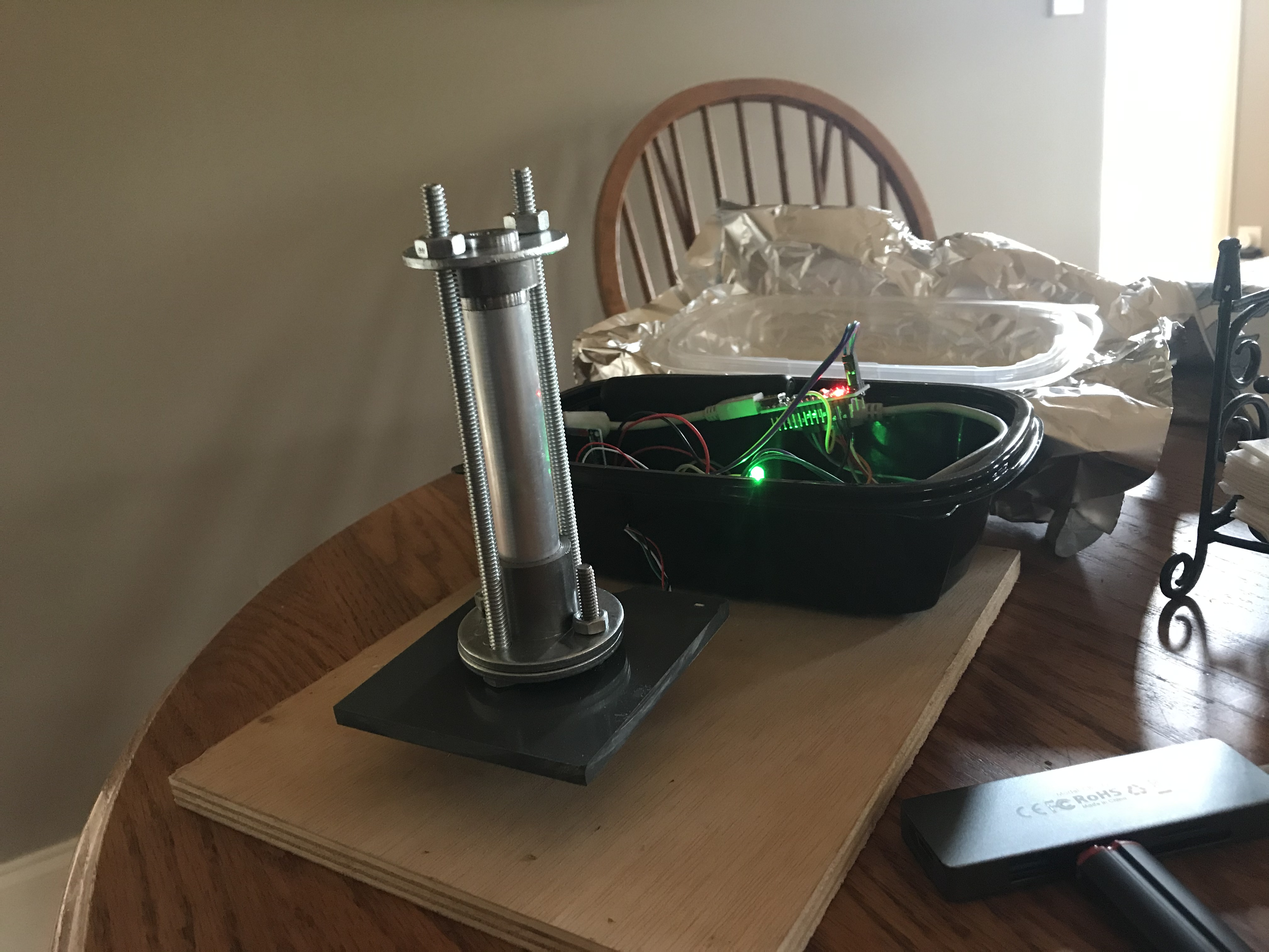
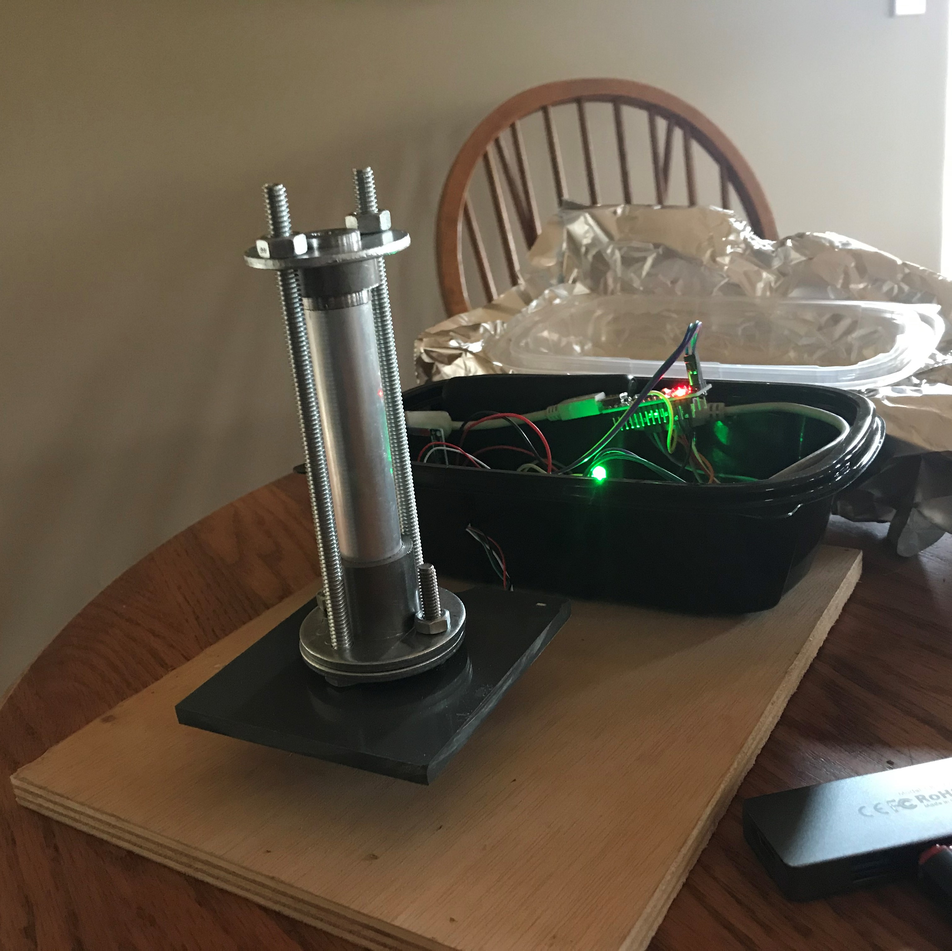
Added Rocket Motor Test Stand Webpage

diff --git a/rocketteststand.html b/rocketteststand.html
@@ -53,41 +53,41 @@
 								</header>
 								<div class="box alt">
 									<div class="row gtr-50 gtr-uniform">
-										<div class="col-6"><span class="image fit"><img src="images/Apollo AV-1 Parts/Apollo AV-1 Trigger_1.stl.png" alt="" /></span></div>
-										<div class="col-6"><span class="image fit"><img src="images/Apollo AV-1 Parts/Shaft v2_2.stl.png" alt="" /></span></div>
+										<div class="col-6"><span class="image fit"><img src="images/arduinoprojectpictures/IMG_4463.jpg" alt="" /></span></div>
+										<div class="col-6"><span class="image fit"><img src="images/arduinoprojectpictures/Rocket Stand V1 in action.png" alt="" /></span></div>
 									</div>
 								</div>
 								<!-- <div class="image main"><img src="images/Apollo AV-1 Parts/Apollo AV-1 Trigger_1.stl.png" alt="" /></div> -->
 								<p>This rocket test stand is built for conducting thrust tests on homemade rocket motors. This design is currently still a work in progress 
 									due to the fact that the picture in the project showcase was the last one taken before the stand was destroyed, along with the data. While 
-									the test stand worked perfectly, albeit lacking asthetics, all of the data from the half dozen motors tests was lost after the SD card logging the 
+									the test stand worked perfectly, albeit lacking aesthetics, all of the data from the half dozen motors tests was lost after the SD card logging the 
 									data turned into fragments strewn across the lawn. After lessons learned from the first motor test stand, I have purchased all the required parts 
-									for a version two design. The latest design features logging thrust data from a 20 kilogram strain gauge, where the data is read by a microcontroller. 
+									for a version two design. The latest design features logging thrust data from a 10-kilogram strain gauge, where the data is read by a microcontroller. 
 									Most of the changes between the original design pictured and the new design centeres around a bigger load cell to capture higher peak thrusts in rocket motors 
-									as well as a redundant realtime telemetry system streaming straight to a computer so that even if the motor catastrophically fails, all data collected up until 
+									as well as a redundant real time telemetry system streaming straight to a computer so that even if the motor catastrophically fails, all data collected up until 
 									failure is still logged. Other changes include adding a key for a more secure launch circuit as well as a much longer cable. I also will move all the electronics 
 									below the test stand with a blast shield over it so that no electronics will hopefully be harmed this time around. 									
 								<header class="major">
 									<h2 style="text-align: left;" >Load Cell & Amplifier</h2>
 								</header>
-								<p><span class="image right"><img src="images/Apollo AV-1 Parts/Apollo AV-1 Trigger_1.stl.png" alt="" /></span>
-									This is the load cell in a wheatstone bridge configuration is used to measure force applied whatever it is attached to. Load cells come in all shapes and sizes, with different accuracies and weight ratings. For most hobby purposes, the higher the weight rating, the less accurate it will be, especially when trying to measure small forces. So, it is important to purchase the right load cell for the project. In my case, a 10 kilogram load cell was used, as most commercial rocket engines dont exceed 20 newtons, or 2 kilograms of thrust.  
-									The leads of the load cell are connected to an HX711 load cell amplifier in order to actually get measurable data from the load cell, which would otherwise just be small voltages due to changes in resistances. Most purchasable load cells come with the HX711 amplifier 
-									as it is a perfect pairing for hobby microcontrollers and actually reading data. Before I started the project, I was able to research how others had utilized this load cell amplifier configuration. 
+								<p><span class="image right"><img src="images/arduinoprojectpictures/loadcellhx711.jpg" alt="" /></span>
+									This is the load cell in a Wheatstone bridge configuration is used to measure force applied whatever it is attached to. Load cells come in all shapes and sizes, with different accuracies and weight ratings. For most hobby purposes, the higher the weight rating, the less accurate it will be, especially when trying to measure small forces. So, it is important to purchase the right load cell for the project. In my case, a 10-kilogram load cell was used, as most commercial rocket engines don't exceed 20 newtons, or 2 kilograms of thrust.  
+									The leads of the load cell are connected to an HX711 load cell amplifier to actually get measurable data from the load cell, which would otherwise just be small voltages due to changes in resistances. Most purchasable load cells come with the HX711 amplifier 
+									as it is a perfect pairing for hobby microcontrollers and reading data. Before I started the project, I was able to research how others had utilized this load cell amplifier configuration. 
 									I found that while in its stock configuration it was slow, it could be modified to increase the data throughput of the load cell. 
 									Most HX711 amplifiers ship with a stock refresh rate of 10Hz, or 10 times a second. This is a problem when trying to gather meaningful data out of a rocket motor as burn times can happen in as little as 1 second. 
-									In order to see the thrust curve, and to calculate other metrics such as specifc impulse, the board was modified by resoldering a new jumper on the HX711 in order to allow 
+									In an effort to get meaningful data such as the thrust curve, and to calculate other metrics such as specifc impulse, the board was modified by resoldering a new jumper on the HX711 in order to allow 
 									operation at 80Hz.
 								<ul class="actions special">
 									<li><a href="https://www.sparkfun.com/products/13879" target="_blank" class="button">Check it out on adafruit</a></li>
 								</ul>
 
 								<header class="major">
-									<h2 style="text-align: right;" >Shaft</h2>
+									<h2 style="text-align: right;" >Stand</h2>
 								</header>
-								<p><span class="image left"><img src="images/Apollo AV-1 Parts/Shaft v2_2.stl.png" alt="" /></span>This is the shaft part I designed in Fusion360. Much like the trigger part above, the precise measurements were adhered to strictly, while once again liberties were taken to aid in rigidity and ease of 3D printing. The location for the original reed switch magnet has been projected perfectly with respect to the shaft so that there is no misalignment through the full range of motion. The angle of the keyway that couples with the trigger part is also modeled perfectly for a snug fit. The bottom has been reinforced for 3D printing ease. Extra strength in this area can help provide a solid wide base to 3d print a vertical shaft on.</p>
-								<ul class="actions special">
-									<li><a href="https://www.thingiverse.com/thing:4720822" target="_blank" class="button">Check it out on thingiverse</a></li>
+								<p><span class="image left"><img src="images/arduinoprojectpictures/IMG_4463.jpg" alt="" /></span>
+									The first iteration of the stand was constructed out of a scrap piece of plywood and some machined aluminum bushings to for load cell mounting. The bushings were turned from aluminum bar stock to 5 millimeters in length. The actual top of the load cell plate was made from a flat piece of PVC sheet stock with holes drilled to accommodate the motor mounting bracket. This bracket consists of two machined ends that fit over the rocket casing. The whole assembly is sandwiched together using four sets of threaded rod and nuts to securely fasten the rocket motor in the vertical axis for accurate and repeatable thrust measurements. In the version two design parts from this version will be salvaged and reused as this part of the test stand was robust enough for any potential failure of the test platform. As stated previously however, the base plate that hold the load cell and motor fixture will be raised up to accommodate the electronics housing so that they remain safer in any sort of mishap from the test stand.								<ul class="actions special">
+									<!--<li><a href="https://www.thingiverse.com/thing:4720822" target="_blank" class="button">Check it out on thingiverse</a></li>-->
 								</ul>
 							</section>
 					</div>
@@ -95,7 +95,7 @@
 
 				<!-- Copyright -->
 					<div id="copyright">
-						<ul><li>&copy; Dillon Kelley 2020</li><li>Design: <a href="https://html5up.net">HTML5 UP</a></li></ul>
+						<ul><li>&copy; Dillon Kelley 2021</li><li>Design: <a href="https://html5up.net">HTML5 UP</a></li></ul>
 					</div>
 
 			</div>

diff --git a/projects.html b/projects.html
@@ -88,10 +88,10 @@
 										<!-- <span class="date">April 24, 2017</span> -->
 										<h2><a href="#">Rocket Test Stand</a></h2>
 									</header>
-									<a href="#" class="image fit"><img src="images/arduinoprojectpictures/IMG_4463.jpg" alt="" /></a>
+									<a href="rocketteststand.html" class="image fit"><img src="images/arduinoprojectpictures/IMG_4463.jpg" alt="" /></a>
 									<p>This Arduino project is still a work in progress. This is a DIY model rocket motor test stand using a load cell and sd card logging to test the efficacy of my homemade model rocket motors.</p>
 									<ul class="actions special">
-										<li><a href="#" class="button disabled">Check it out</a></li>
+										<li><a href="rocketteststand.html" class="button">Check out the progress</a></li>
 									</ul>
 								</article>
 								<article>

diff --git a/apolloav-1parts.html b/apolloav-1parts.html
@@ -81,7 +81,7 @@
 
 				<!-- Copyright -->
 					<div id="copyright">
-						<ul><li>&copy; Dillon Kelley 2020</li><li>Design: <a href="https://html5up.net">HTML5 UP</a></li></ul>
+						<ul><li>&copy; Dillon Kelley 2021</li><li>Design: <a href="https://html5up.net">HTML5 UP</a></li></ul>
 					</div>
 
 			</div>

diff --git a/resume.html b/resume.html
@@ -62,7 +62,6 @@
 								<li><a href="https://www.linkedin.com/in/dillon-kelley/"  target="_blank" class="icon brands fa-linkedin"><span class="label">LinkedIn</span></a></li>
 							</ul>
 						</section>
-					</section>
 				</div>
 
 			<!-- Copyright -->
